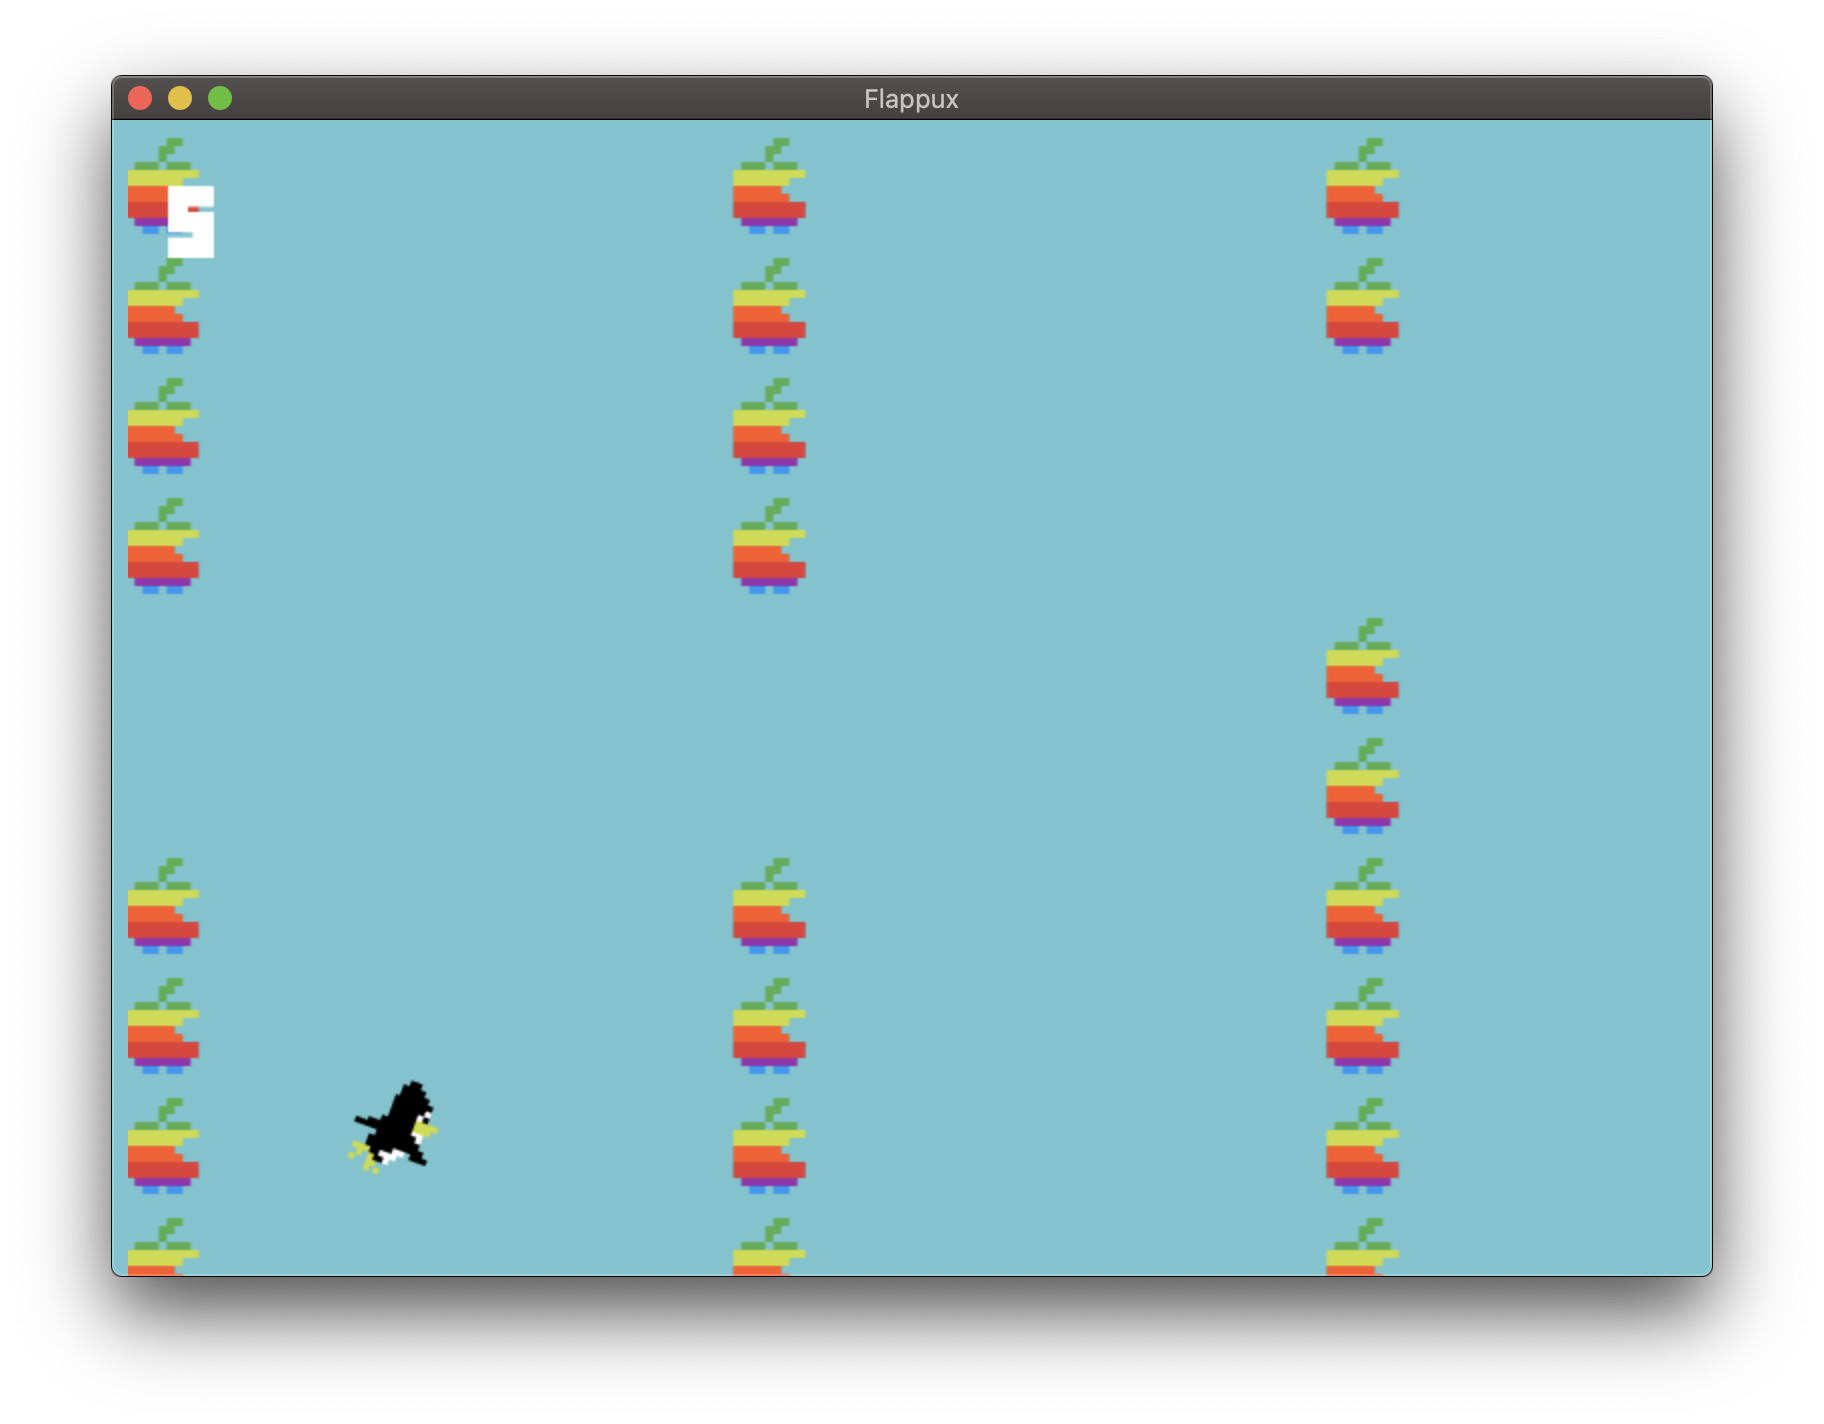
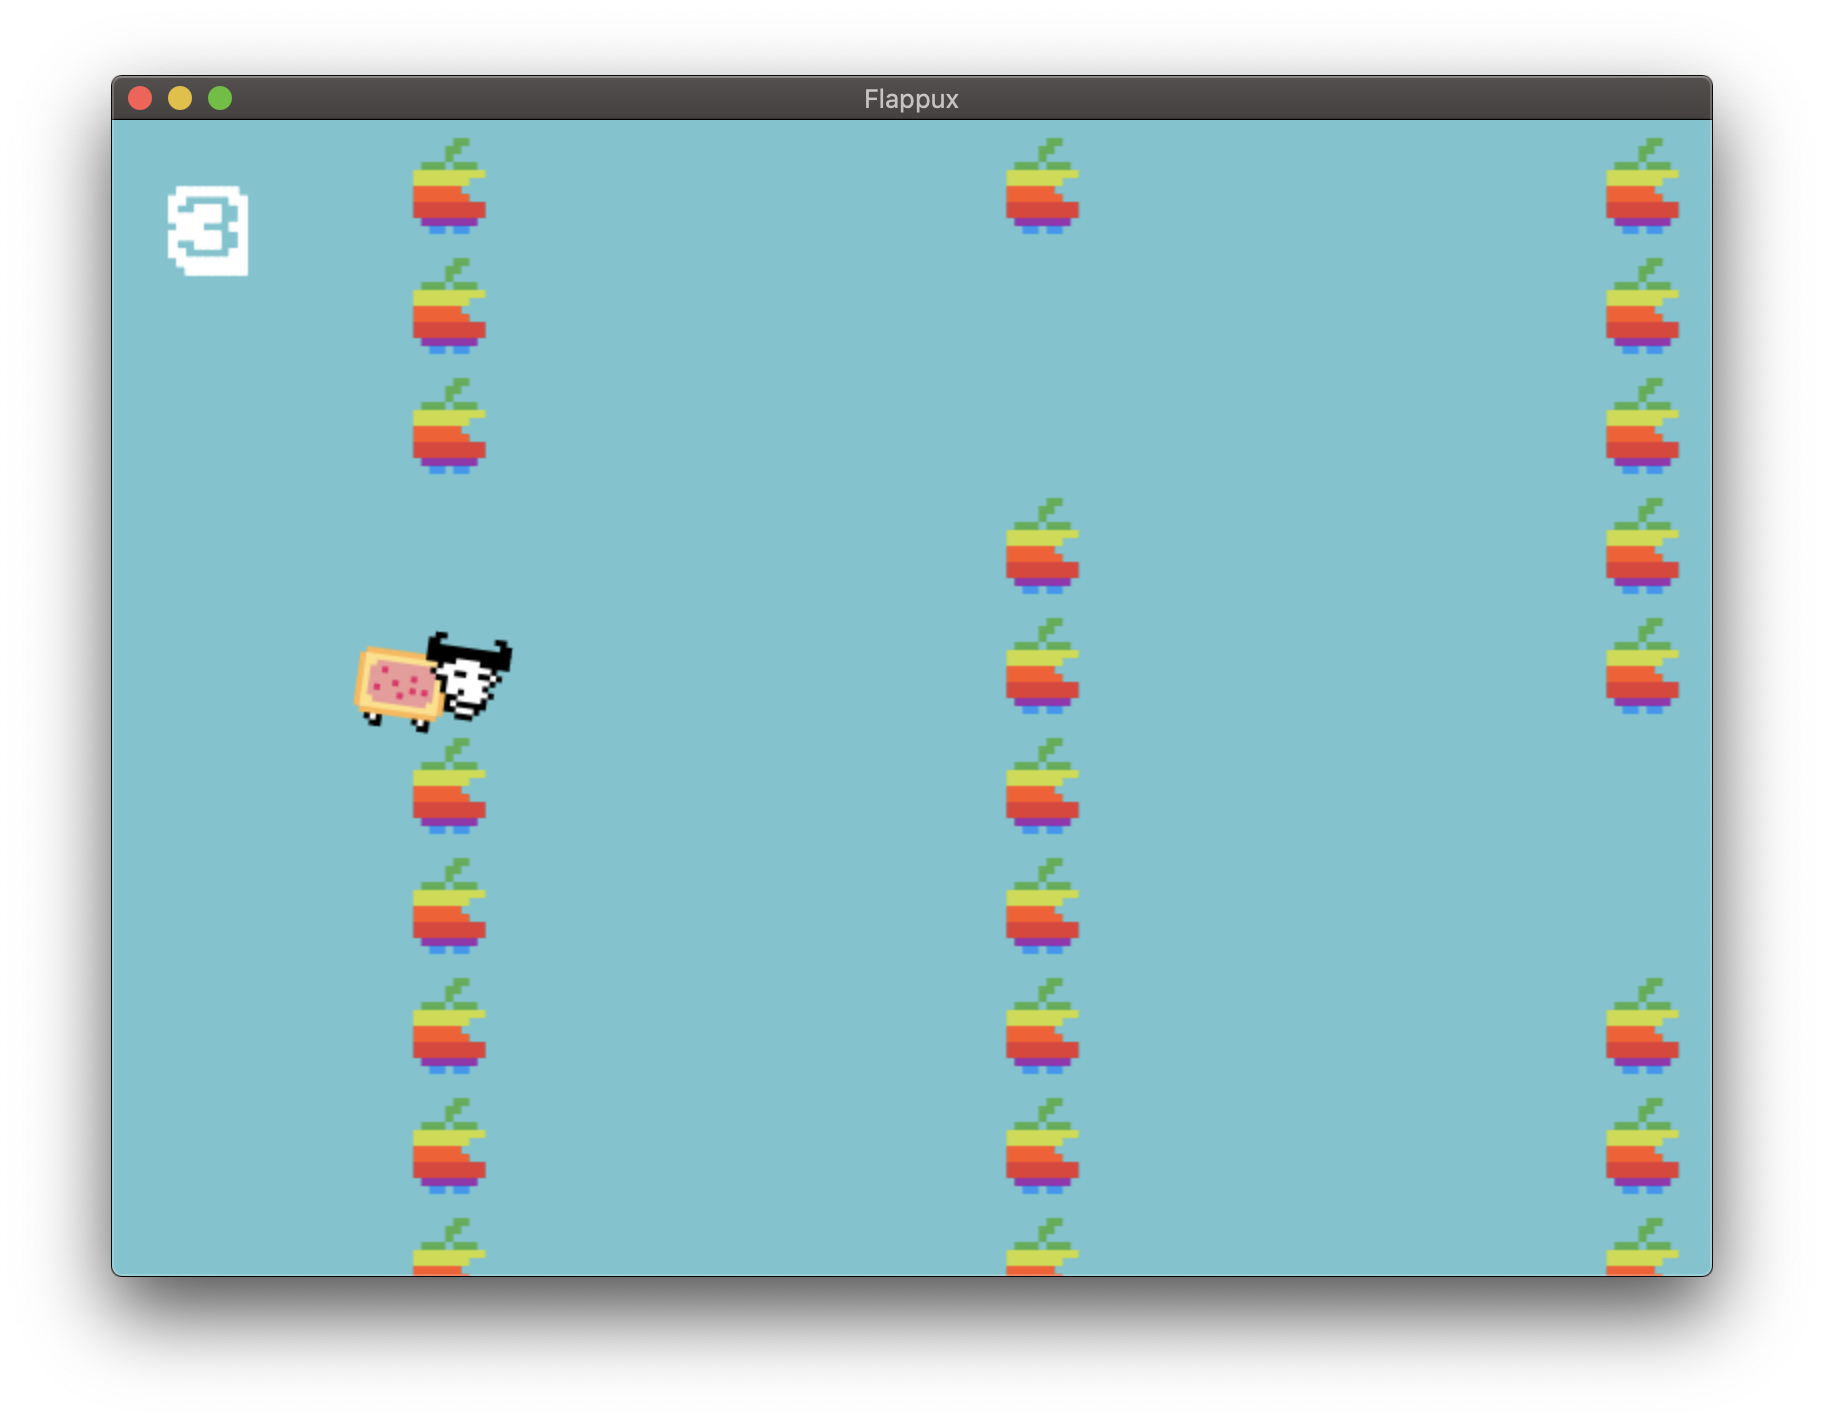
Update screenshot

diff --git a/js/game.js b/js/game.js
@@ -167,7 +167,7 @@ var mainState = {
     },
 
     addOnePipe: function (x, y) {
-        var column = game.add.sprite(x, y, 'aws'); // IMPORTANT: THIS CHANGES THE COLUMN SHAPE
+        var column = game.add.sprite(x, y, 'apple'); // IMPORTANT: THIS CHANGES THE COLUMN SHAPE
         this.columns.add(column);
         game.physics.arcade.enable(column);
 
